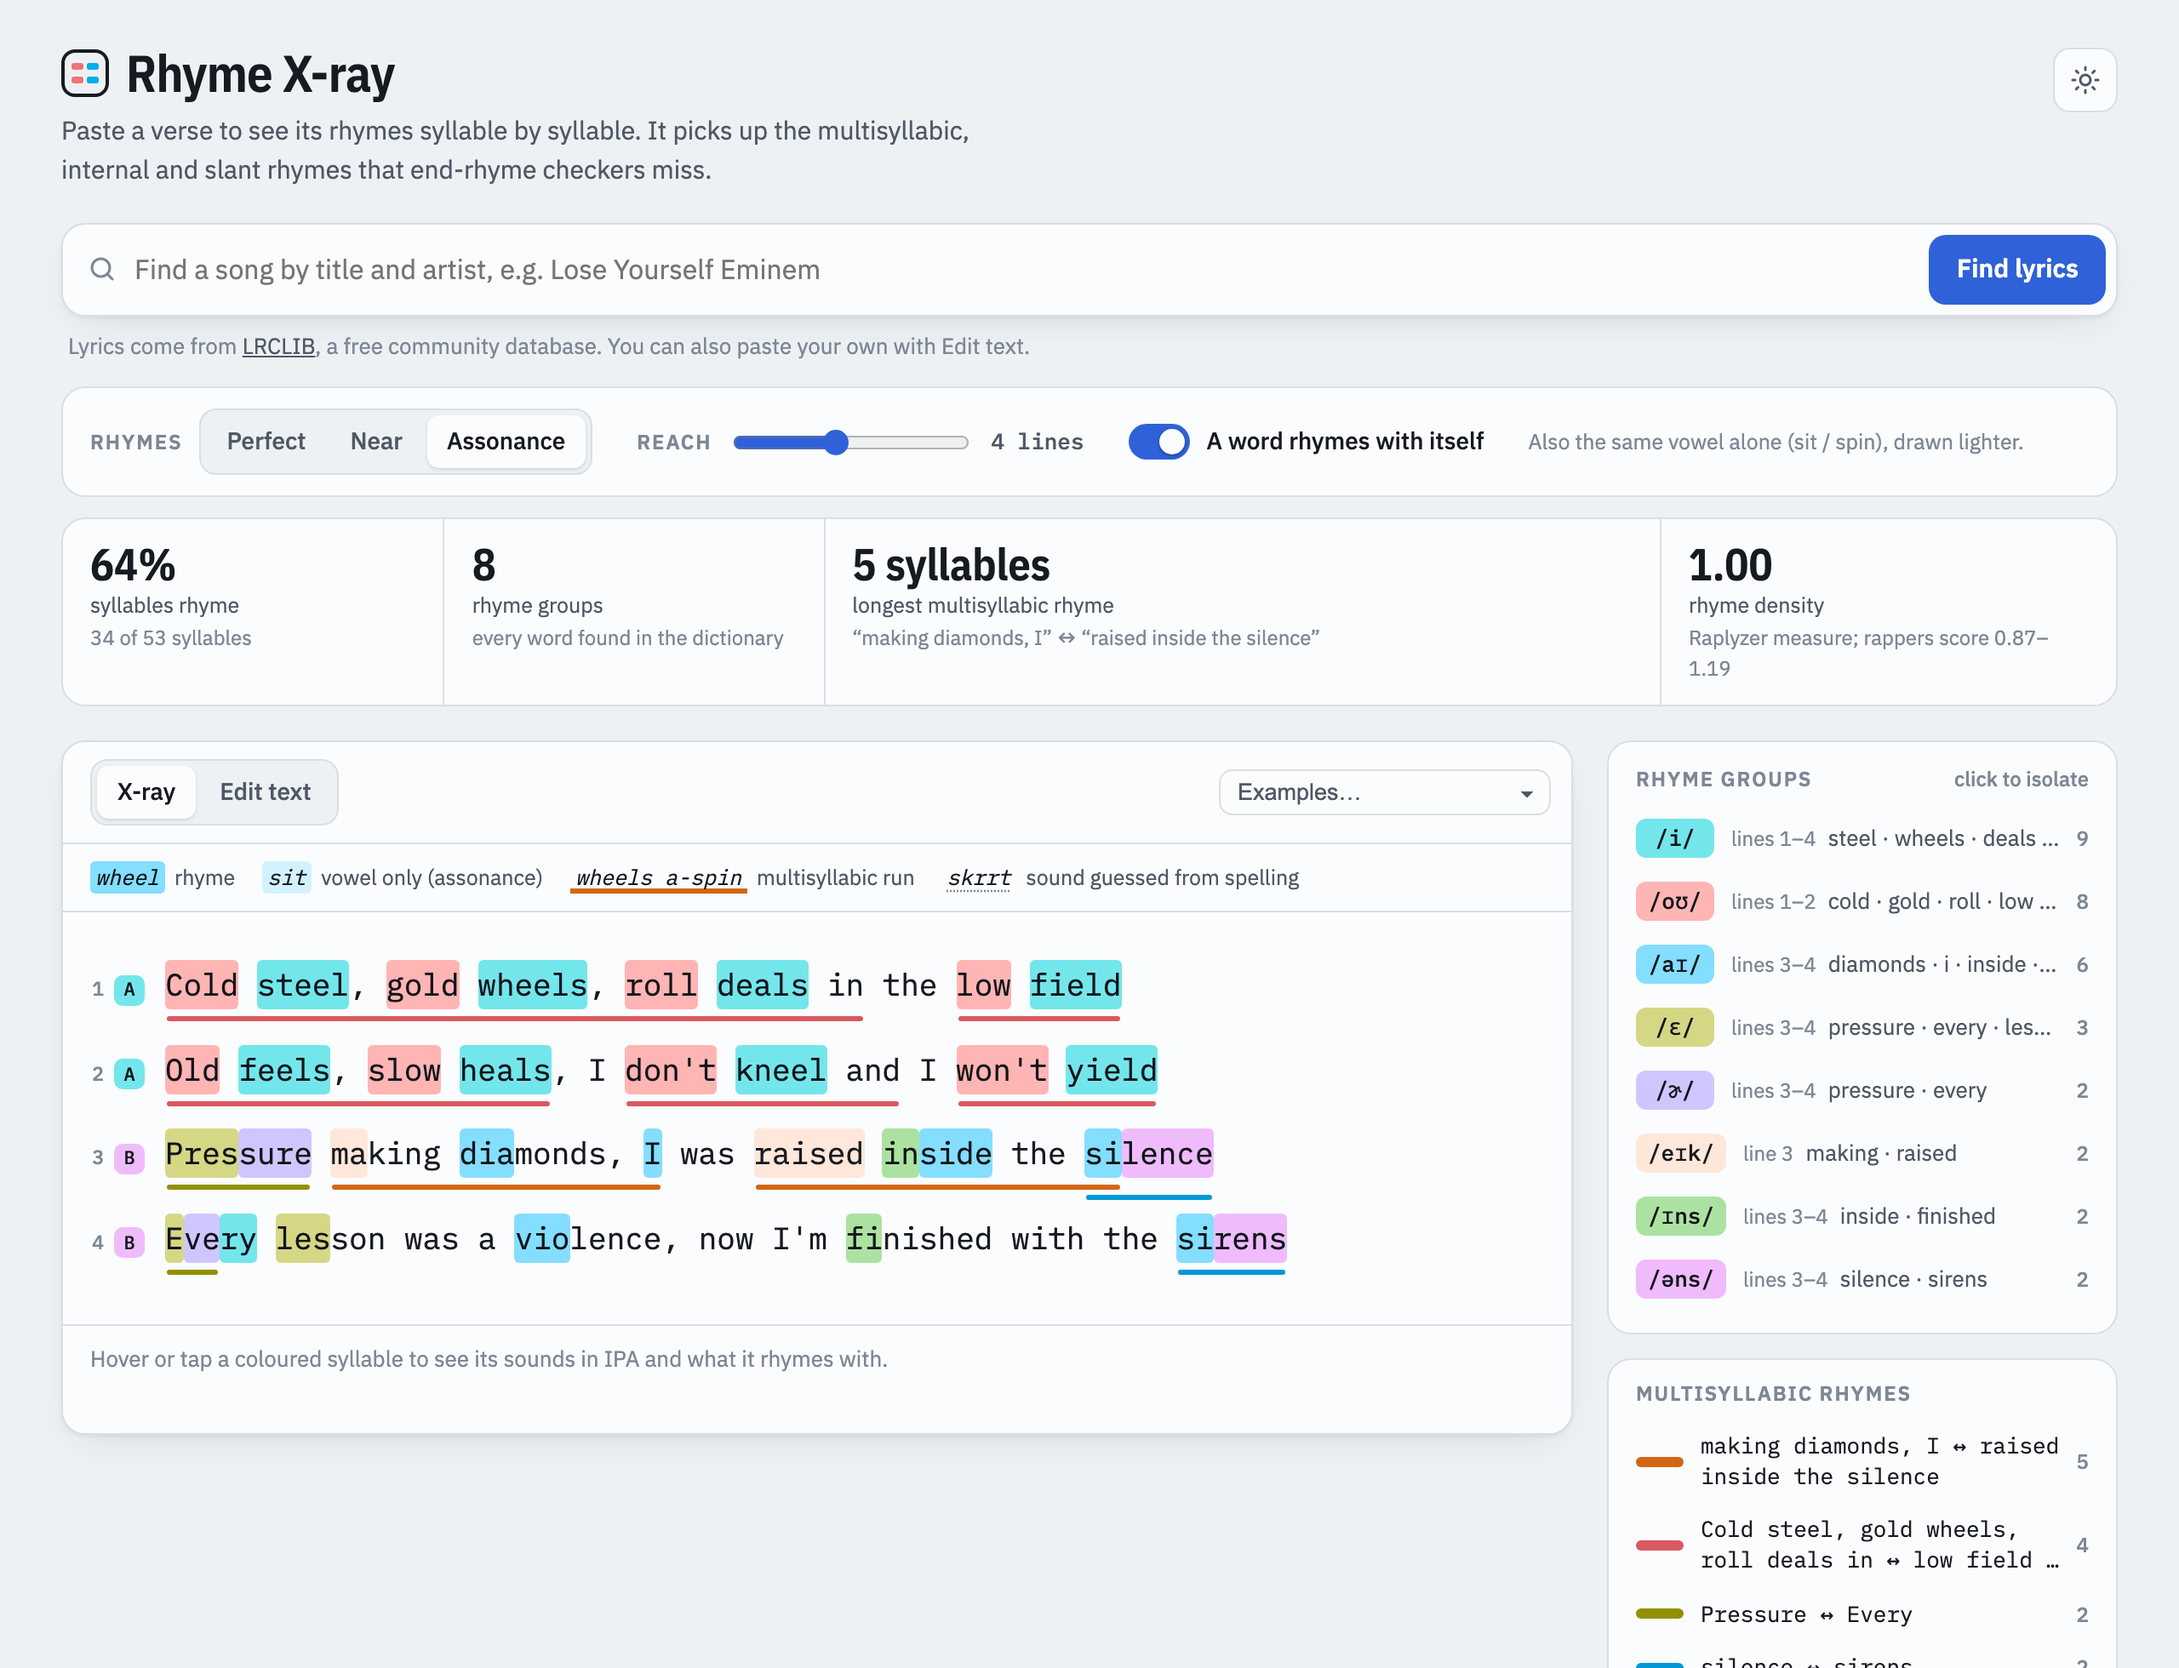
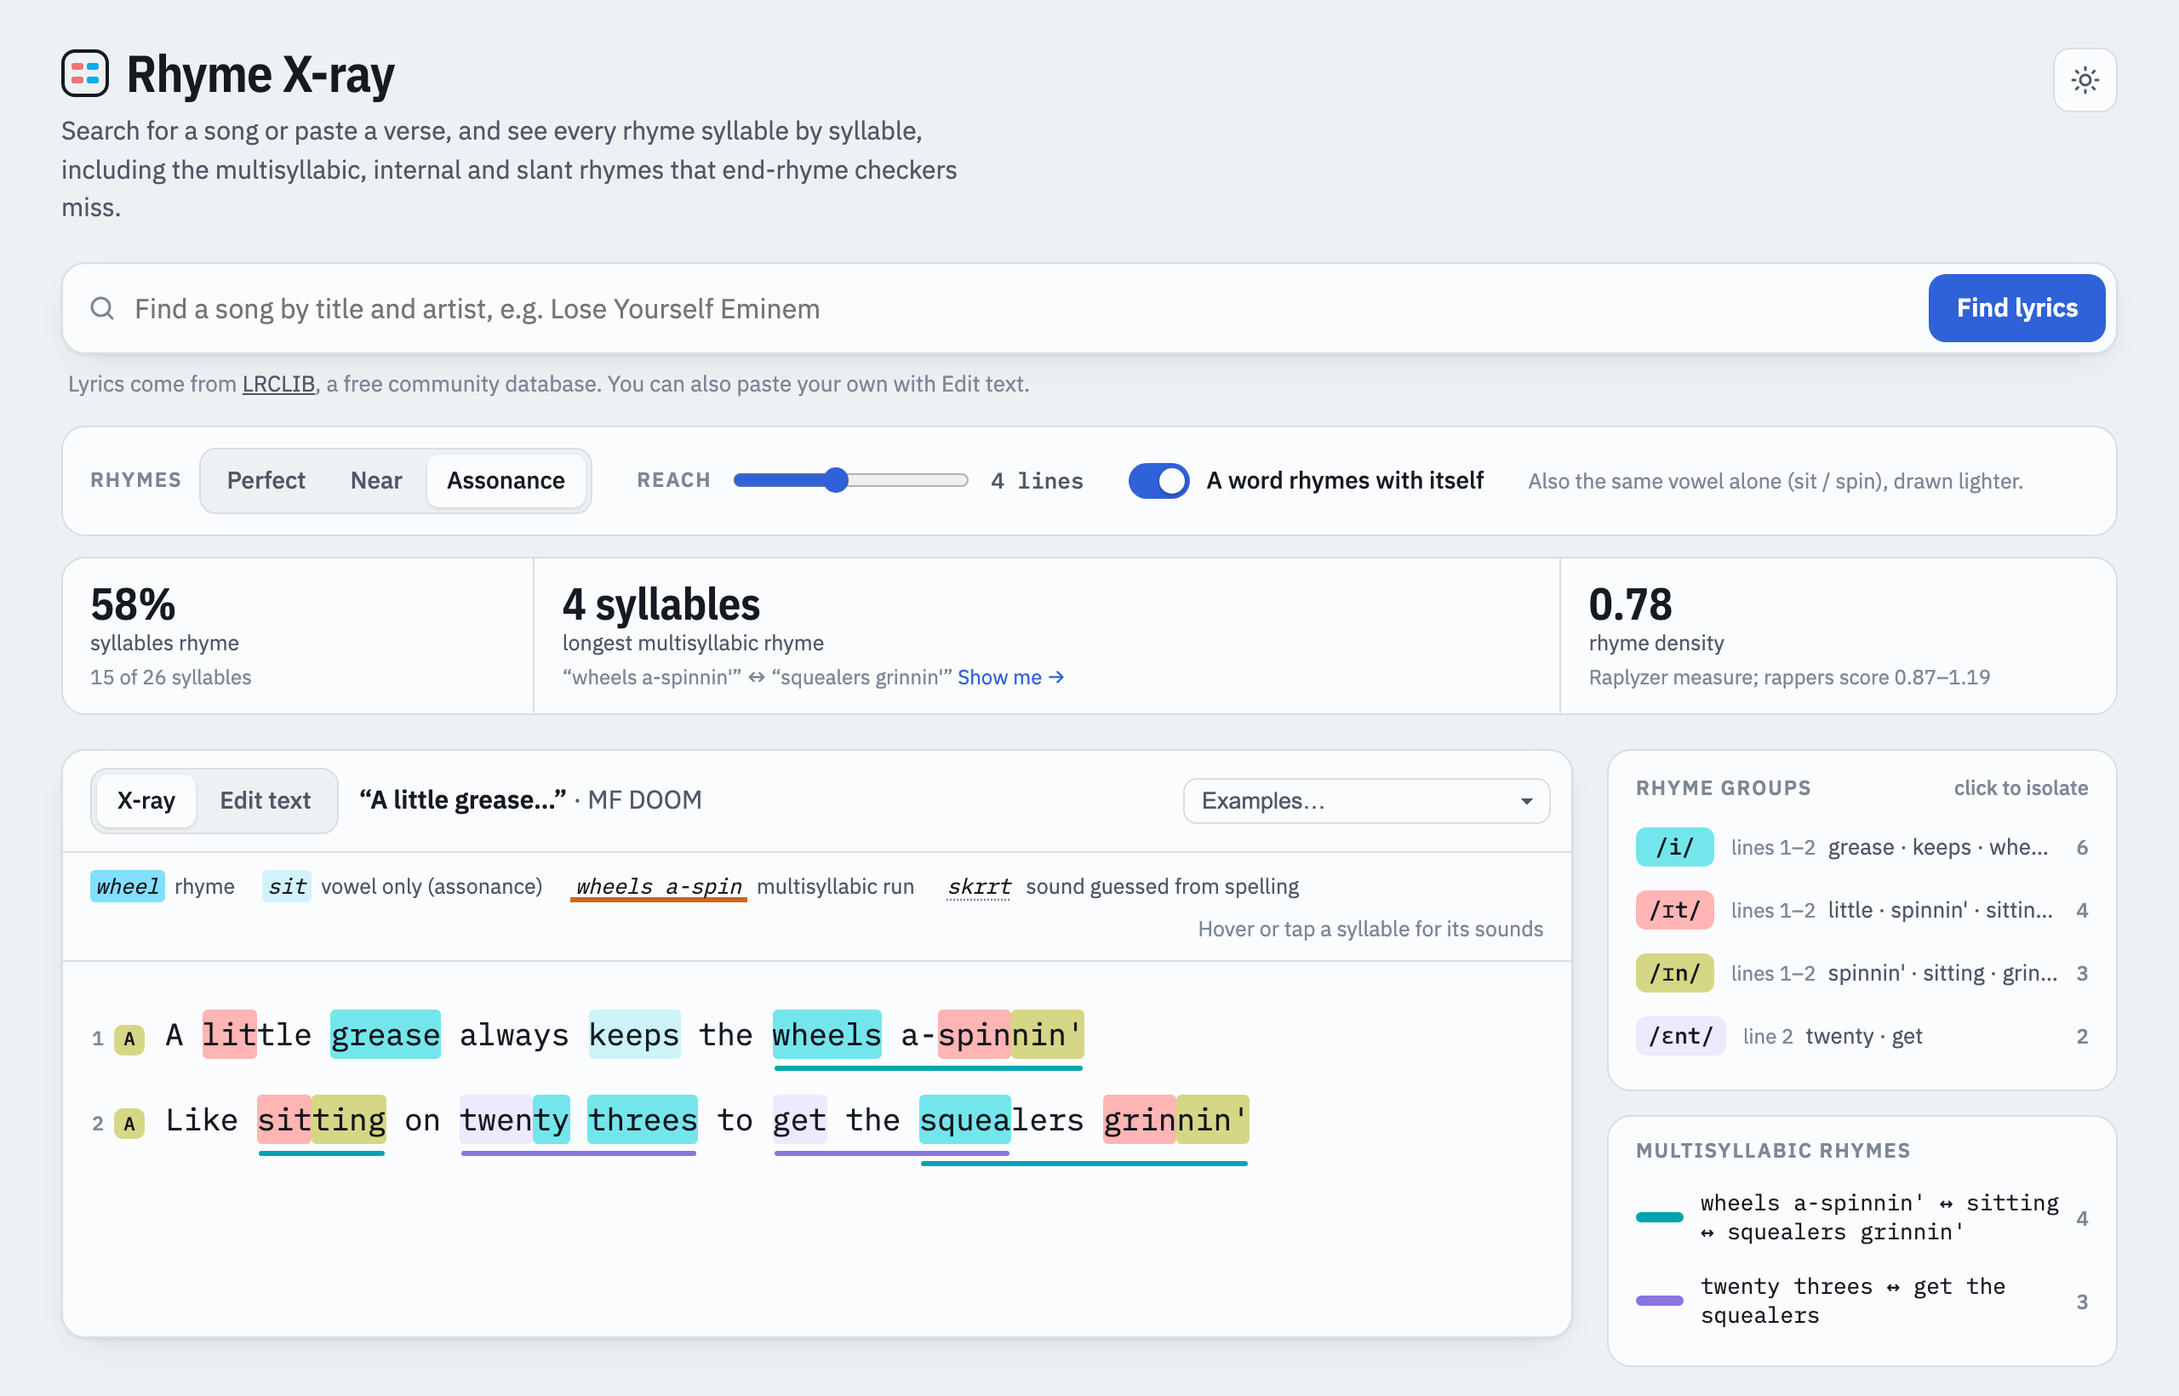
Open on the MF DOOM bar, credit it, trim examples and readings
- The page always opens on MF DOOM's "A little grease…" bar, credited in the sheet header
- Remove the Cold steel example
- Rhyme-types Multi line reads as a sentence: "it lines up in full with sultry"
- Drop the rhyme-groups count from the readings strip (guessed-word count moves under
  the rhyme share)

diff --git a/index.html b/index.html
@@ -224,7 +224,7 @@ kbd { font: 12px var(--f-mono); padding: 1px 5px; border: 1px solid var(--rule);
 input[type="range"] { accent-color: var(--accent); }
 
 .readings {
-  display: grid; grid-template-columns: 1fr 1fr 2.2fr 1.2fr; margin-bottom: 20px;
+  display: grid; grid-template-columns: 1.1fr 2.4fr 1.3fr; margin-bottom: 20px;
   background: var(--sheet); border: 1px solid var(--rule); border-radius: 14px;
 }
 .reading { min-width: 0; padding: 12px 16px; }
@@ -234,11 +234,7 @@ input[type="range"] { accent-color: var(--accent); }
 .reading small { display: block; font-size: 12px; color: var(--ink-3); margin-top: 2px; overflow-wrap: anywhere; }
 @media (max-width: 760px) {
   .readings { grid-template-columns: 1fr 1fr; }
-  .reading + .reading { border-left: 0; }
-  .reading:nth-child(even) { border-left: 1px solid var(--rule); }
-  .reading:nth-child(n+3) { border-top: 1px solid var(--rule); }
-  .reading.wide { grid-column: 1 / -1; border-left: 0; }
-  .reading:last-child { grid-column: 1 / -1; border-left: 0; }
+  .readings .reading.wide { grid-column: 1 / -1; order: 3; border-left: 0; border-top: 1px solid var(--rule); }
 }
 
 .song { flex: 1; min-width: 0; font-weight: 600; white-space: nowrap; overflow: hidden; text-overflow: ellipsis; }
@@ -393,7 +389,6 @@ input[type="range"] { accent-color: var(--accent); }
 
   <section class="readings" aria-label="Readings">
     <div class="reading"><b id="rShare">–</b><span>syllables rhyme</span><small id="rShareSub">&nbsp;</small></div>
-    <div class="reading"><b id="rGroups">–</b><span>rhyme groups</span><small id="rGroupsSub">&nbsp;</small></div>
     <button type="button" class="reading wide jump" id="rLongest" title="Show this rhyme in the verse"><b id="rMulti">–</b><span>longest multisyllabic rhyme</span><small id="rMultiSub">&nbsp;</small></button>
     <div class="reading" title="Average length of each word's longest matching vowel run (Malmi et al. 2016). The DopeLearning study measured 0.87–1.19 across 94 artists' full catalogues."><b id="rDensity">–</b><span>rhyme density</span><small>Raplyzer measure; rappers score 0.87–1.19</small></div>
   </section>
@@ -410,8 +405,7 @@ input[type="range"] { accent-color: var(--accent); }
           <label for="examples" style="position:absolute;left:-9999px">Load an example verse</label>
           <select class="text-btn" id="examples">
             <option value="">Examples…</option>
-            <option value="grease">Grease (two-liner)</option>
-            <option value="steel">Cold steel (demo verse)</option>
+            <option value="doom">MF DOOM: “A little grease…”</option>
             <option value="schemes">Rhyme types, one per line</option>
           </select>
         </div>
@@ -501,12 +495,12 @@ Like sitting on twenty threes to get the squealers grinnin'</textarea>
   const colourVars = c => `--h:${HUES[c % HUES.length]};--dl:${DL[c] || 0}`;
 
   const EXAMPLES = {
-    grease: "A little grease always keeps the wheels a-spinnin'\nLike sitting on twenty threes to get the squealers grinnin'",
-    steel: "Cold steel, gold wheels, roll deals in the low field\nOld feels, slow heals, I don't kneel and I won't yield\nPressure making diamonds, I was raised inside the silence\nEvery lesson was a violence, now I'm finished with the sirens",
+    doom: "A little grease always keeps the wheels a-spinnin'\nLike sitting on twenty threes to get the squealers grinnin'",
     // Each line explains its type, and its label rhymes in exactly that type. Every other
     // stressed vowel is used once in the whole example, so no line links to another.
-    schemes: "Perfect: the tail is correct\nNear: the coda grew a beard\nAssonance: vowels, not consonants: a pal in a cab\nMulti: words that line up, sultry"
+    schemes: "Perfect: the tail is correct\nNear: the coda grew a beard\nAssonance: vowels, not consonants: a pal in a cab\nMulti: it lines up in full with sultry"
   };
+  const CREDITS = { doom: { track: '“A little grease…”', artist: 'MF DOOM', album: '' } };
   const TIER_NOTES = [
     'Same vowel and same consonants after it (spin / grin).',
     'Also related or one extra consonant (wheels / squealers).',
@@ -525,12 +519,11 @@ Like sitting on twenty threes to get the squealers grinnin'</textarea>
     pinned: null, // { kind: 'group' | 'multi', id }
   };
 
-  // restore preferences and draft
+  // restore preferences (the verse itself always starts on the MF DOOM bar)
   (function restore() {
     const t = store.get('tier'); if (t !== null && /^[012]$/.test(t)) state.tier = +t;
     const i = store.get('identical'); if (i !== null) state.identical = i === '1';
     const r = store.get('reach'); if (r !== null && +r >= 1 && +r <= 8) state.reach = +r;
-    const d = store.get('draft'); if (d) ta.value = d;
     const th = store.get('theme'); if (th === 'light' || th === 'dark') document.documentElement.dataset.theme = th;
   })();
 
@@ -570,10 +563,10 @@ Like sitting on twenty threes to get the squealers grinnin'</textarea>
   $('viewXray').addEventListener('click', () => setView(false));
   $('done').addEventListener('click', () => setView(false));
   ta.addEventListener('keydown', e => { if (e.key === 'Enter' && (e.metaKey || e.ctrlKey)) { e.preventDefault(); setView(false); } });
-  ta.addEventListener('input', () => { store.set('draft', ta.value); if (state.song) setSong(null); });
+  ta.addEventListener('input', () => { if (state.song) setSong(null); });
   $('examples').addEventListener('change', e => {
     const v = EXAMPLES[e.target.value];
-    if (v) { ta.value = v; store.set('draft', v); setSong(null); state.pinned = null; setView(false); }
+    if (v) { ta.value = v; setSong(CREDITS[e.target.value] || null); state.pinned = null; setView(false); }
     e.target.value = '';
   });
 
@@ -642,9 +635,8 @@ Like sitting on twenty threes to get the squealers grinnin'</textarea>
   function renderReadings(A) {
     const st = A.stats;
     $('rShare').textContent = st.syllables ? Math.round(100 * st.share) + '%' : '–';
-    $('rShareSub').textContent = `${st.rhyming} of ${st.syllables} syllables`;
-    $('rGroups').textContent = st.groups;
-    $('rGroupsSub').textContent = st.guessed ? `${st.guessed} word${st.guessed === 1 ? '' : 's'} guessed from spelling` : 'every word found in the dictionary';
+    $('rShareSub').textContent = `${st.rhyming} of ${st.syllables} syllables` + (st.guessed ? ` · ${st.guessed} word${st.guessed === 1 ? '' : 's'} guessed` : '');
+
     if (st.longest) {
       $('rMulti').textContent = st.longest.len + ' syllables';
       $('rLongest').disabled = false;
@@ -898,15 +890,15 @@ Like sitting on twenty threes to get the squealers grinnin'</textarea>
     const el = $('song');
     if (song) {
       el.innerHTML = `${esc(song.track)} <span>· ${esc(song.artist)}</span>`;
-      el.title = `${song.track} by ${song.artist}${song.album ? ', from ' + song.album : ''}. Lyrics from LRCLIB.`;
+      el.title = `${song.track} by ${song.artist}${song.album ? ', from ' + song.album : ''}${song.lrclib ? '. Lyrics from LRCLIB.' : ''}`;
       el.hidden = false;
-      store.set('song', JSON.stringify(song));
     } else {
       el.hidden = true; el.textContent = '';
-      store.set('song', '');
     }
   }
-  try { const s = JSON.parse(store.get('song') || 'null'); if (s && s.track) setSong(s); } catch (e) { /* ignore */ }
+  // The page always opens on the MF DOOM bar.
+  ta.value = EXAMPLES.doom;
+  setSong(CREDITS.doom);
 
   const fmtTime = sec => sec ? `${Math.floor(sec / 60)}:${String(Math.round(sec % 60)).padStart(2, '0')}` : '';
   function cleanLyrics(t) {
@@ -980,8 +972,7 @@ Like sitting on twenty threes to get the squealers grinnin'</textarea>
   function pick(i) {
     const r = found[i]; if (!r) return;
     ta.value = cleanLyrics(r.plainLyrics);
-    store.set('draft', ta.value);
-    setSong({ track: r.trackName, artist: r.artistName, album: r.albumName || '' });
+    setSong({ track: r.trackName, artist: r.artistName, album: r.albumName || '', lrclib: true });
     closeResults();
     qIn.blur();
     state.pinned = null;

diff --git a/README.md b/README.md
@@ -9,6 +9,10 @@ rhymes (same vowel, different consonants).
 
 **Try it:** <https://baphaelman.github.io/rhyme-xray/>
 
+The page opens on an MF DOOM bar ("A little grease always keeps the wheels a-spinnin' /
+Like sitting on twenty threes to get the squealers grinnin'"). Its four-syllable rhyme
+"wheels a-spinnin'" ↔ "squealers grinnin'" is exactly what spelling-based checkers miss.
+
 ## Run it
 
 Open `index.html` in a browser. There is no build step.
